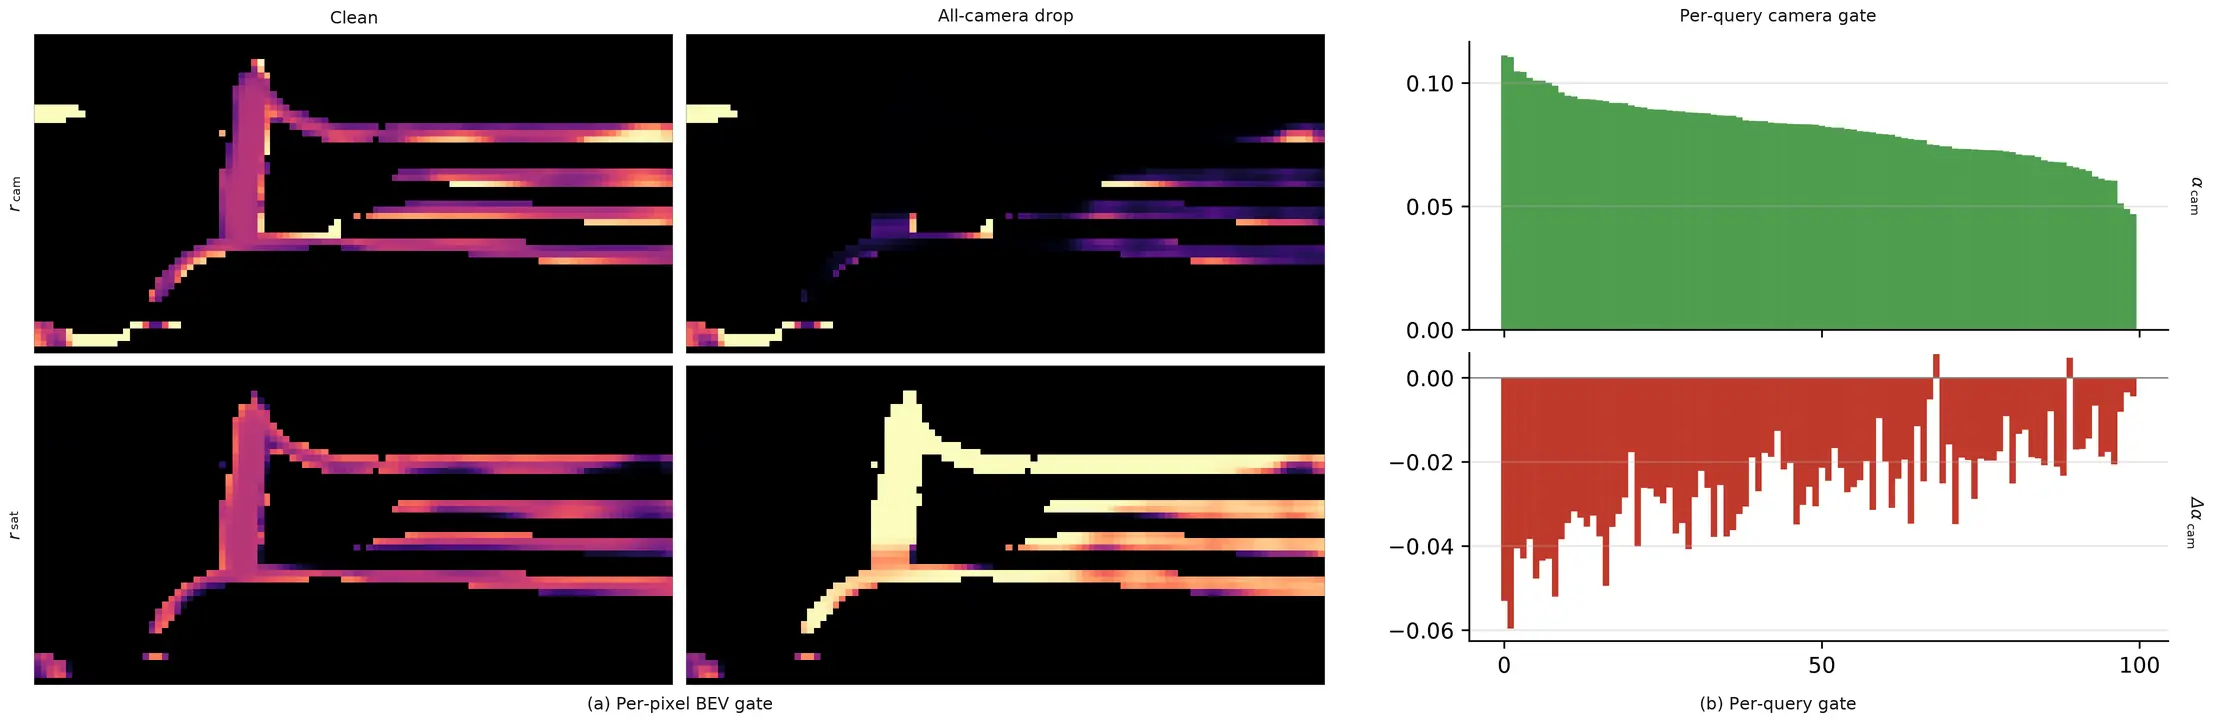
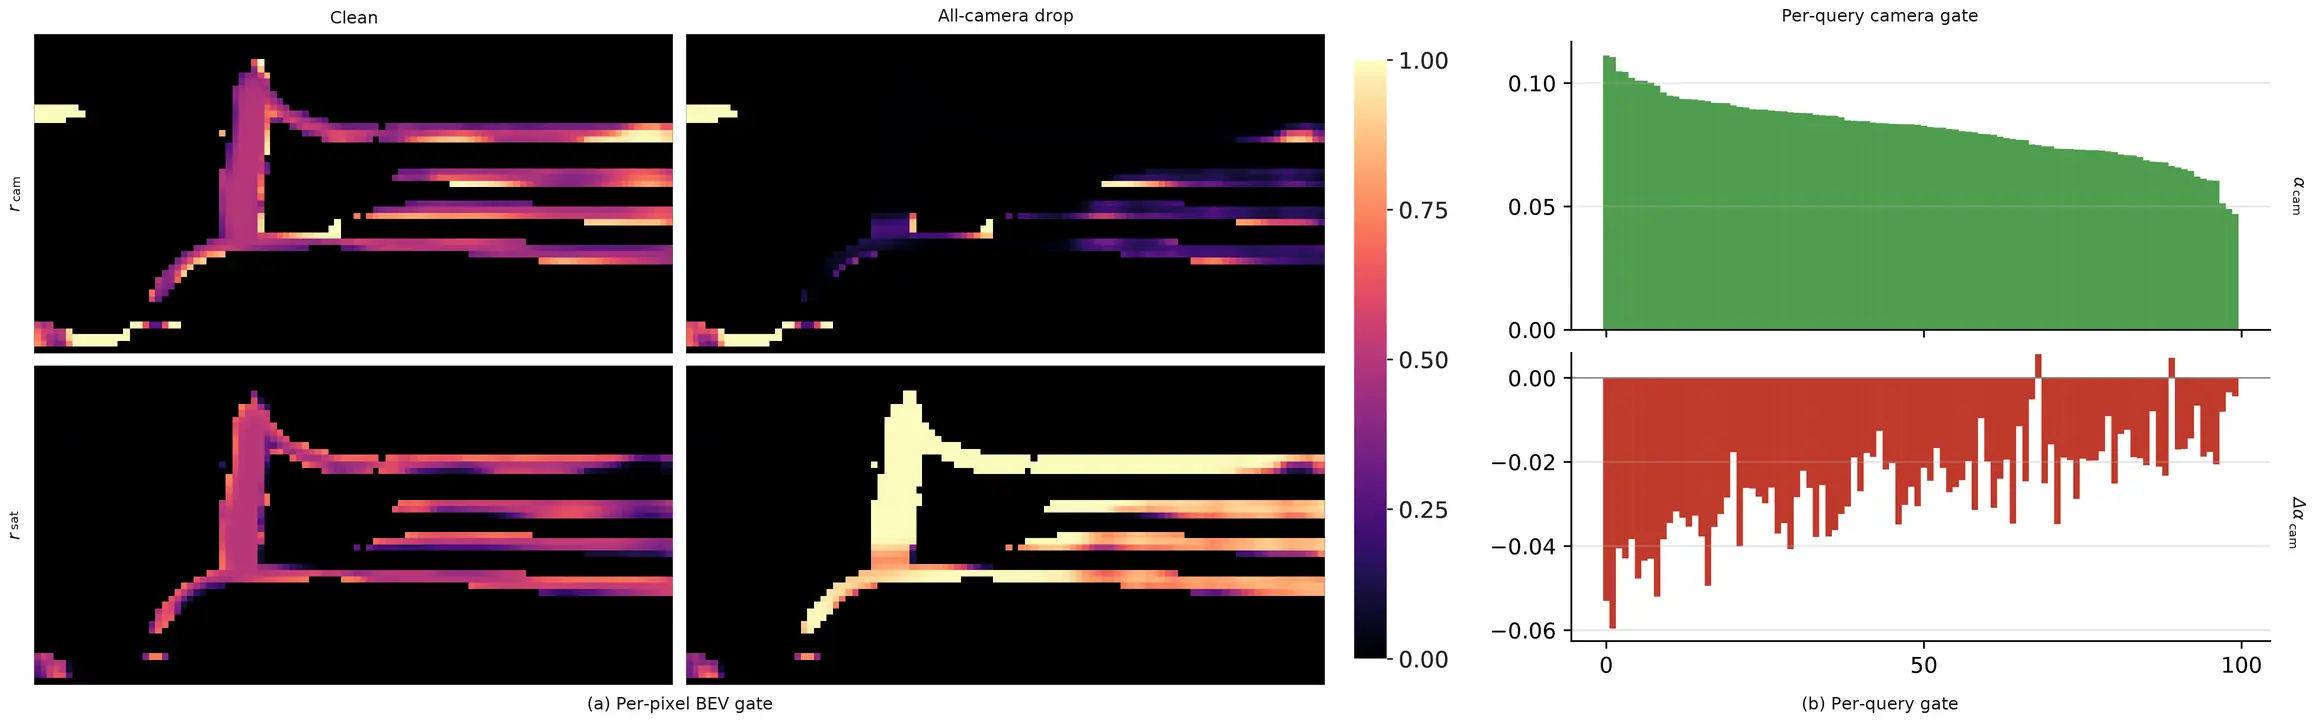
Give the gate figure its scale back
colorbar_v goes where the LaTeX puts it, between the BEV columns and the bar
chart and as tall as the two rows together, so the heat maps read against
0.00 to 1.00 rather than against nothing. compose_gate.py takes its own
intermediates to a temp directory and writes the WebP itself now, so
rerunning it is the whole job. 37 KB.

diff --git a/resmap-page/index.html b/resmap-page/index.html
@@ -34,7 +34,7 @@
 <link rel="preconnect" href="https://fonts.gstatic.com" crossorigin>
 <link rel="preconnect" href="https://cdn.jsdelivr.net" crossorigin>
 <link rel="stylesheet" href="https://fonts.googleapis.com/css2?family=Inter:ital,opsz,wght@0,14..32,400;0,14..32,500;0,14..32,600;0,14..32,700&display=swap">
-<link rel="stylesheet" href="style.css?v=35">
+<link rel="stylesheet" href="style.css?v=36">
 
 <!-- Set the theme before first paint so there is no flash. -->
 <script>
@@ -603,8 +603,8 @@
   </button>
 </div>
 
-<script src="failure.js?v=35"></script>
-<script src="drive.js?v=35"></script>
-<script src="main.js?v=35"></script>
+<script src="failure.js?v=36"></script>
+<script src="drive.js?v=36"></script>
+<script src="main.js?v=36"></script>
 </body>
 </html>

diff --git a/resmap-page/assets/figures/compose_gate.py b/resmap-page/assets/figures/compose_gate.py
@@ -1,41 +1,54 @@
 """Assemble the gate figure from the paper's five sub-PDFs.
 
 The LaTeX builds this as a 2x3 tabular; here it is composed directly so the
-one image the page needs carries its own headers and row labels. The vertical
-colorbar the LaTeX places between the BEV columns and the bar chart is not
-among the files supplied, so its slot is left out rather than invented.
+one image the page needs carries its own headers and row labels. Parts:
+1-1/1-2 and 2-1/2-2 are the BEV gate maps, colorbar_v is their scale, and
+3 is the per-query bar chart.
 """
-import subprocess, os
+import subprocess, os, tempfile
 from PIL import Image, ImageDraw, ImageFont
 
-SRC, OUT = '/home/kyungmin/min_ws', os.path.dirname(os.path.abspath(__file__))
+SRC = '/home/kyungmin/min_ws'                      # where the paper's parts are
+OUT = os.path.dirname(os.path.abspath(__file__))
+TMP = tempfile.mkdtemp(prefix='gate-')
 S = 2                                   # supersample, downscaled at the end
 
-BEV_W, GAP, PANEL_GAP, COL_GAP = 640 * S, 12 * S, 54 * S, 12 * S
+BEV_W, GAP, COL_GAP = 640 * S, 12 * S, 12 * S
+CBAR_PAD = 22 * S                       # air either side of the colorbar
 LBL_W, HEAD_H, CAP_H = 34 * S, 34 * S, 40 * S
 AX_W = 38 * S
 
-def render(name, target_w):
-    import re
-    out = os.path.join(OUT, 'c-%s.png' % name)
-    w = float(subprocess.run(
+def size(name):
+    out = subprocess.run(
         ['python3', '-c',
          "import warnings;warnings.filterwarnings('ignore')\n"
-         "from pypdf import PdfReader;print(PdfReader('%s/%s.pdf').pages[0].mediabox.width)" % (SRC, name)],
-        capture_output=True, text=True).stdout)
-    dpi = round(target_w / w * 72)
+         "from pypdf import PdfReader\n"
+         "b=PdfReader('%s/%s.pdf').pages[0].mediabox\n"
+         "print(float(b.width), float(b.height))" % (SRC, name)],
+        capture_output=True, text=True).stdout.split()
+    return float(out[0]), float(out[1])
+
+def render(name, target_w=None, target_h=None):
+    out = os.path.join(TMP, 'c-%s.png' % name)
+    w, h = size(name)
+    dpi = round((target_w / w if target_w else target_h / h) * 72)
     subprocess.run(['gs', '-q', '-dSAFER', '-dBATCH', '-dNOPAUSE', '-sDEVICE=png16m',
                     '-r%d' % dpi, '-dTextAlphaBits=4', '-dGraphicsAlphaBits=4',
                     '-sOutputFile=' + out, '%s/%s.pdf' % (SRC, name)], check=True)
     return Image.open(out).convert('RGB')
 
-bev = {n: render(n, BEV_W) for n in ('1-1', '1-2', '2-1', '2-2')}
+bev = {n: render(n, target_w=BEV_W) for n in ('1-1', '1-2', '2-1', '2-2')}
 row_h = bev['1-1'].height
 
 # The bar chart stands as tall as the two BEV rows together.
 panel_h = row_h * 2 + GAP
-chart = render('3', 4000)
+chart = render('3', target_w=4000)
 chart = chart.resize((round(chart.width * panel_h / chart.height), panel_h), Image.LANCZOS)
+
+# The scale for the two BEV rows, standing as tall as they do.
+cbar = render('colorbar_v', target_h=panel_h * 3)
+cbar = cbar.resize((round(cbar.width * panel_h / cbar.height), panel_h), Image.LANCZOS)
+PANEL_GAP = cbar.width + CBAR_PAD * 2
 
 W = LBL_W + BEV_W * 2 + COL_GAP + PANEL_GAP + chart.width + AX_W
 H = HEAD_H + panel_h + CAP_H
@@ -85,6 +98,7 @@ for r, (a, b_) in enumerate((('1-1', '1-2'), ('2-1', '2-2'))):
     img.paste(bev[b_], (col[1], y))
     turned(script('r', ['cam', 'sat'][r], lab, sub), LBL_W / 2, y + row_h / 2, 90)
 
+img.paste(cbar, (x0 + BEV_W * 2 + COL_GAP + CBAR_PAD, HEAD_H))
 img.paste(chart, (panel_x, HEAD_H))
 turned(script('α', 'cam', lab, sub), panel_x + chart.width + AX_W / 2, HEAD_H + panel_h * 0.25, 270)
 turned(script('Δα', 'cam', lab, sub), panel_x + chart.width + AX_W / 2, HEAD_H + panel_h * 0.75, 270)
@@ -94,5 +108,12 @@ centre('(a) Per-pixel BEV gate', cap, x0 + BEV_W + COL_GAP / 2, yc)
 centre('(b) Per-query gate', cap, panel_x + chart.width / 2, yc)
 
 img = img.resize((W // S, H // S), Image.LANCZOS)
-img.save(os.path.join(OUT, 'gate.png'))
-print('gate.png', img.size)
+flat = os.path.join(TMP, 'gate.png')
+img.save(flat)
+
+# Near-lossless: the BEV maps are photographic enough that truly lossless
+# costs more than it is worth, and the labels stay exact either way.
+final = os.path.join(OUT, 'gate.webp')
+subprocess.run(['convert', flat, '-define', 'webp:near-lossless=60',
+                '-define', 'webp:method=6', '-strip', final], check=True)
+print('gate.webp  %dx%d  %d bytes' % (img.width, img.height, os.path.getsize(final)))

diff --git a/resmap-page/assets/README.md b/resmap-page/assets/README.md
@@ -10,14 +10,15 @@ are being produced.
 |-----------------|---------------|-------------------------------------------|---------|
 | `overview.webp` | §3 Method     | paper Fig. 1 (architecture)               | in      |
 | `ocmq.webp`     | §3.2          | paper Fig. 3 (query design / matching)    | in      |
-| `gate.webp`     | §7.1 Analysis | paper Fig. 2, composed from its five parts | in, no colorbar |
+| `gate.webp`     | §7.1 Analysis | paper Fig. 2, composed from its six parts  | in      |
 | `social.jpg`    | link previews | 1200 x 630, the top of the overview        | stopgap |
 | `teaser.webp`   | hero          | not in the paper: a qualitative panel under all-camera drop would do | **wanted** |
 
-`gate.webp` is missing the vertical colorbar the LaTeX places between the BEV
-columns and the bar chart: `colorbar_v.pdf` was not among the parts, and a
-scale on a heat map is not something to invent. Drop that file in and rerun
-`compose_gate.py` to put it back.
+`gate.webp` is assembled by `compose_gate.py`, which reads the six parts the
+paper builds Figure 2 from (`1-1`, `1-2`, `2-1`, `2-2`, `colorbar_v`, `3`) out
+of `SRC` at the top of the file and writes the WebP straight out. It draws the
+headers, the rotated row and axis labels and the sub-captions that the LaTeX
+tabular puts around them.
 
 ## How these were made
 
